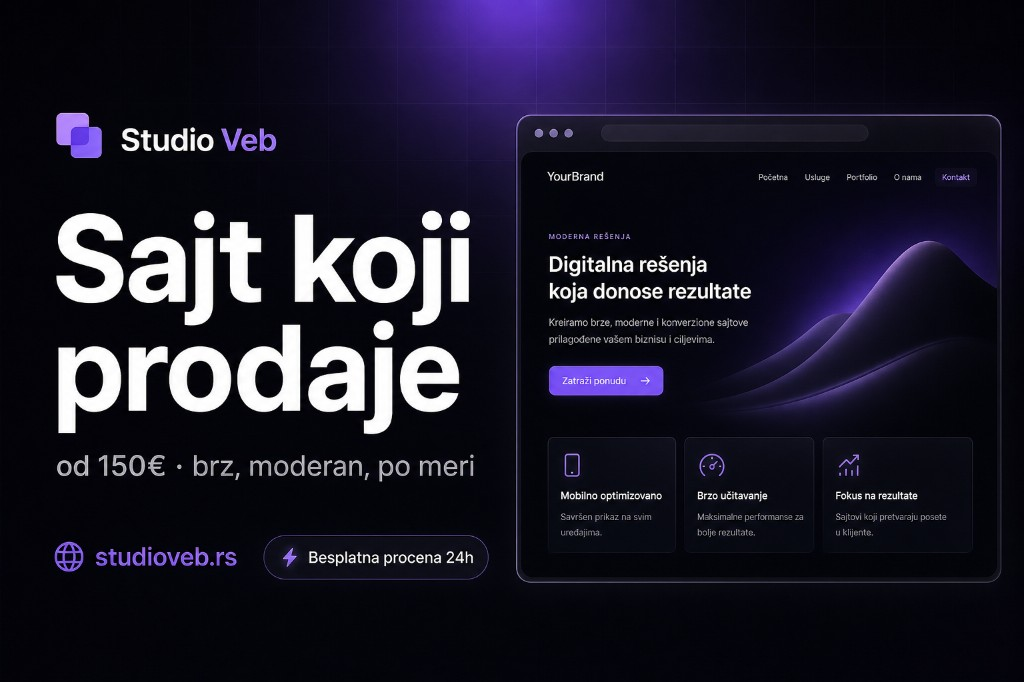
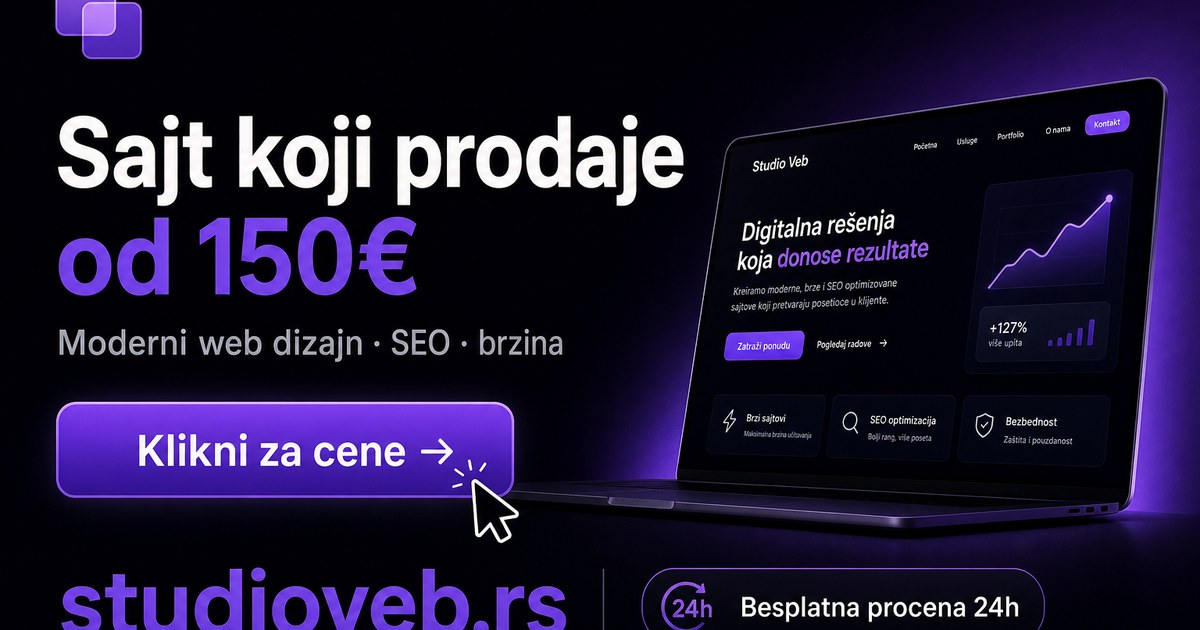
Dodaj OG sliku za deljenje linka na društvenim mrežama.
Ažurirani meta tagovi (1200×630, v=7) za Facebook, WhatsApp, Viber i slično.

diff --git a/index.html b/index.html
@@ -24,16 +24,16 @@
   <meta property="og:locale" content="sr_RS" />
   <meta property="og:locale:alternate" content="en_US" />
   <meta property="og:url" content="https://studioveb.rs/" />
-  <meta property="og:image" content="https://studioveb.rs/assets/og-image.jpg?v=6" />
-  <meta property="og:image:secure_url" content="https://studioveb.rs/assets/og-image.jpg?v=6" />
+  <meta property="og:image" content="https://studioveb.rs/assets/og-image.jpg?v=7" />
+  <meta property="og:image:secure_url" content="https://studioveb.rs/assets/og-image.jpg?v=7" />
   <meta property="og:image:type" content="image/jpeg" />
-  <meta property="og:image:width" content="1024" />
-  <meta property="og:image:height" content="682" />
-  <meta property="og:image:alt" content="Studio Veb — Sajt koji prodaje. Moderni web dizajn po meri, od 150€." />
+  <meta property="og:image:width" content="1200" />
+  <meta property="og:image:height" content="630" />
+  <meta property="og:image:alt" content="Studio Veb — Sajt koji prodaje od 150€. Klikni za cene i besplatnu procenu na studioveb.rs." />
   <meta name="twitter:card" content="summary_large_image" />
   <meta name="twitter:title" id="twitterTitle" content="Sajt koji prodaje — od 150€ | Studio Veb" />
   <meta name="twitter:description" id="twitterDescription" content="Izrada modernih responzivnih sajtova za male biznise u Srbiji. Cene od 150€. Besplatna procena u 24h." />
-  <meta name="twitter:image" content="https://studioveb.rs/assets/og-image.jpg?v=6" />
+  <meta name="twitter:image" content="https://studioveb.rs/assets/og-image.jpg?v=7" />
 
   <link rel="canonical" href="https://studioveb.rs/" id="canonicalLink" />
   <link rel="alternate" hreflang="sr" href="https://studioveb.rs/" id="hreflangSr" />
@@ -74,9 +74,9 @@
         "inLanguage": "sr-RS",
         "primaryImageOfPage": {
           "@type": "ImageObject",
-          "url": "https://studioveb.rs/assets/og-image.jpg?v=6",
-          "width": 1024,
-          "height": 682
+          "url": "https://studioveb.rs/assets/og-image.jpg?v=7",
+          "width": 1200,
+          "height": 630
         }
       },
       {
@@ -86,7 +86,7 @@
         "alternateName": "StudioVeb",
         "description": "Izrada modernih, brzih i responzivnih sajtova po meri za male biznise i preduzetnike u Srbiji.",
         "url": "https://studioveb.rs/",
-        "image": "https://studioveb.rs/assets/og-image.jpg?v=6",
+        "image": "https://studioveb.rs/assets/og-image.jpg?v=7",
         "logo": "https://studioveb.rs/favicon.svg",
         "email": "ognjen@studioveb.rs",
         "telephone": "+381612892059",

diff --git a/script.js b/script.js
@@ -29,7 +29,7 @@
       "izrada sajtova, web dizajn, sajt po meri, izrada web sajta, web dizajn Srbija, responzivni sajt, landing stranica, SEO, Studio Veb",
     keywordsEn:
       "website design Serbia, custom website, web development, responsive website, landing page, SEO, Studio Veb",
-    ogImagePath: "/assets/og-image.jpg?v=6"
+    ogImagePath: "/assets/og-image.jpg?v=7"
   };
 
   const seoCfg = () => ({ ...SEO_DEFAULTS, ...(CFG.seo || {}) });
@@ -68,7 +68,7 @@
       const canon = document.getElementById("canonicalLink");
       if (canon) canon.href = home;
       document.querySelectorAll('meta[property="og:url"]').forEach((m) => { m.content = home; });
-      const ogPath = (s.ogImagePath || "/assets/og-image.jpg?v=6").replace(/^\//, "");
+      const ogPath = (s.ogImagePath || "/assets/og-image.jpg?v=7").replace(/^\//, "");
       const ogImg = base + "/" + ogPath;
       document.querySelectorAll('meta[property="og:image"], meta[property="og:image:secure_url"], meta[name="twitter:image"]').forEach((m) => {
         m.content = ogImg;

diff --git a/site-config.example.js b/site-config.example.js
@@ -21,6 +21,6 @@ window.SITE_CONFIG = {
       "izrada sajtova, web dizajn, sajt po meri, izrada web sajta, web dizajn Srbija, responzivni sajt, landing stranica, SEO, Studio Veb",
     keywordsEn:
       "website design Serbia, custom website, web development, responsive website, landing page, SEO, Studio Veb",
-    ogImagePath: "/assets/og-image.jpg?v=6"
+    ogImagePath: "/assets/og-image.jpg?v=7"
   }
 };

diff --git a/site-config.js b/site-config.js
@@ -39,6 +39,6 @@ window.SITE_CONFIG = {
     keywordsEn:
       "website design Serbia, custom website, web development, responsive website, landing page, SEO, Studio Veb",
     /** Apsolutna putanja do OG slike (PNG 1200×630 preporučeno za Viber/Facebook) */
-    ogImagePath: "/assets/og-image.jpg?v=6"
+    ogImagePath: "/assets/og-image.jpg?v=7"
   }
 };
